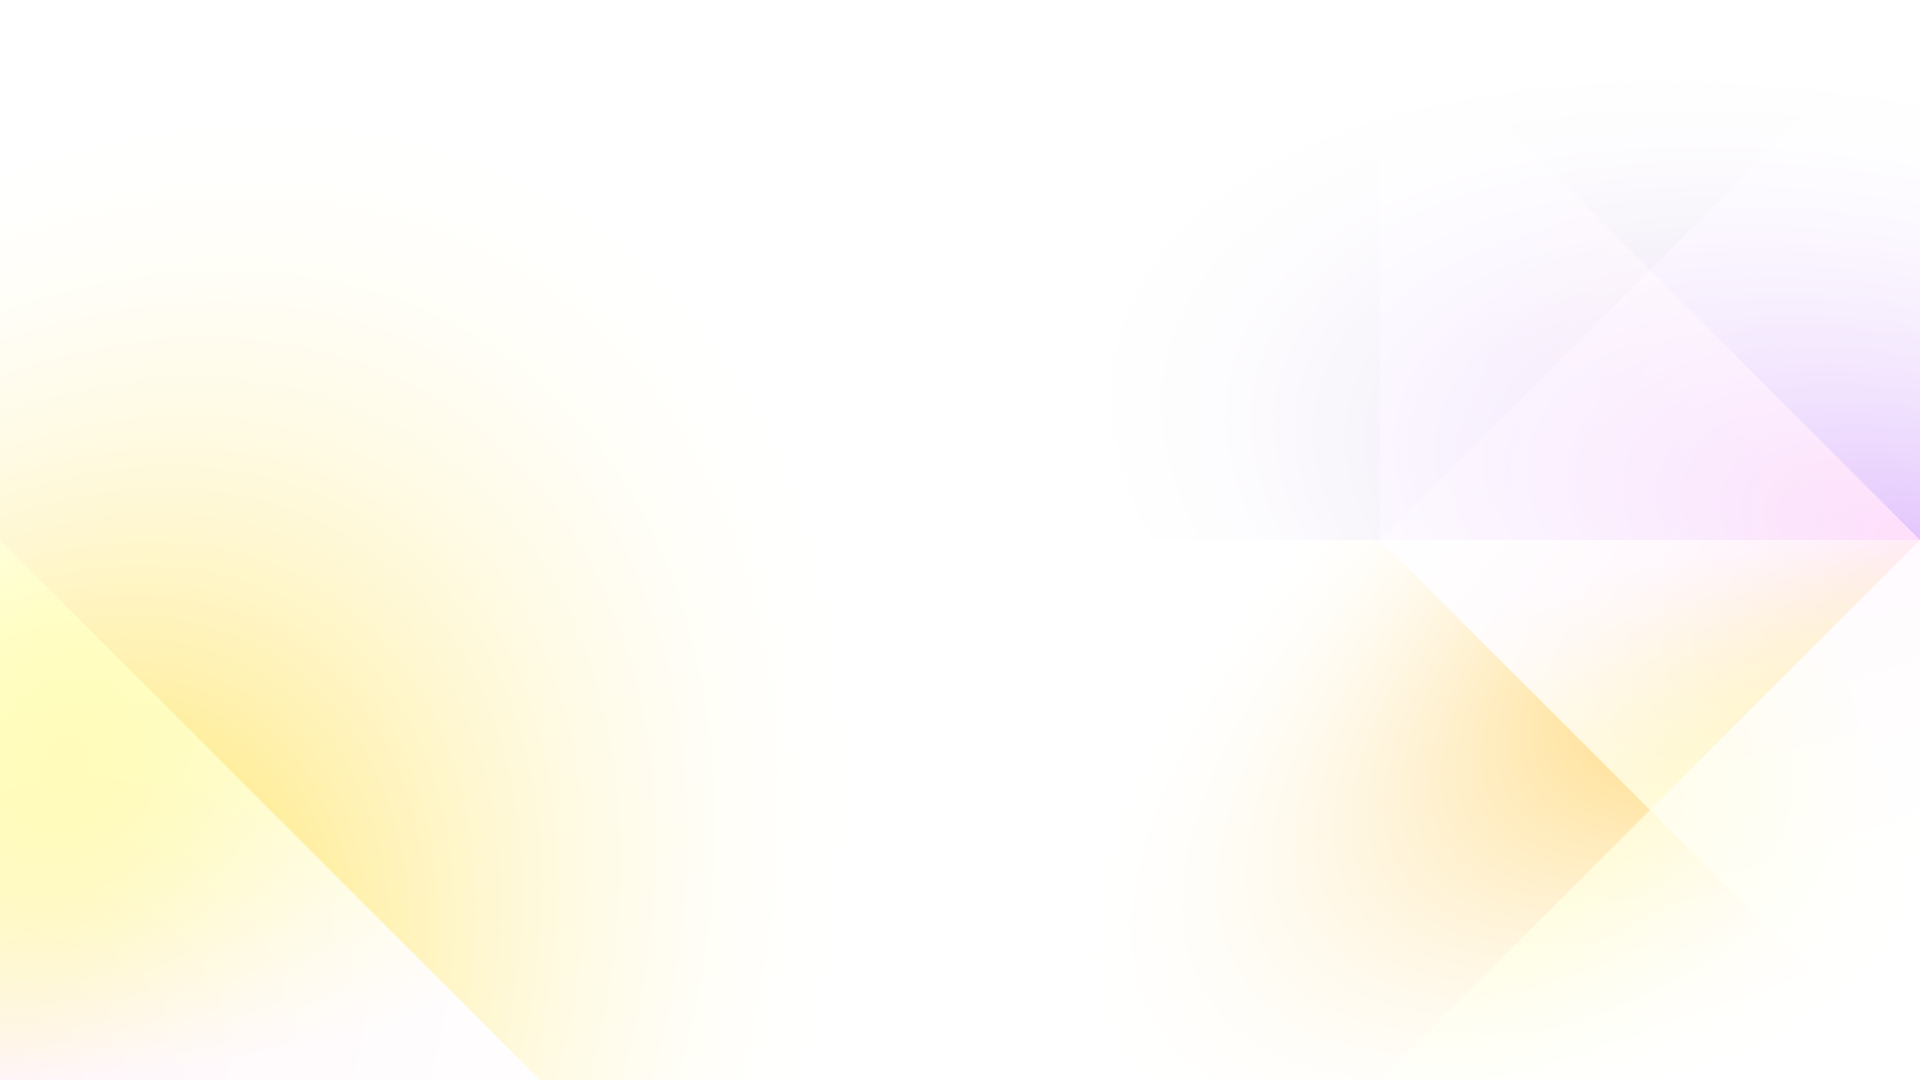
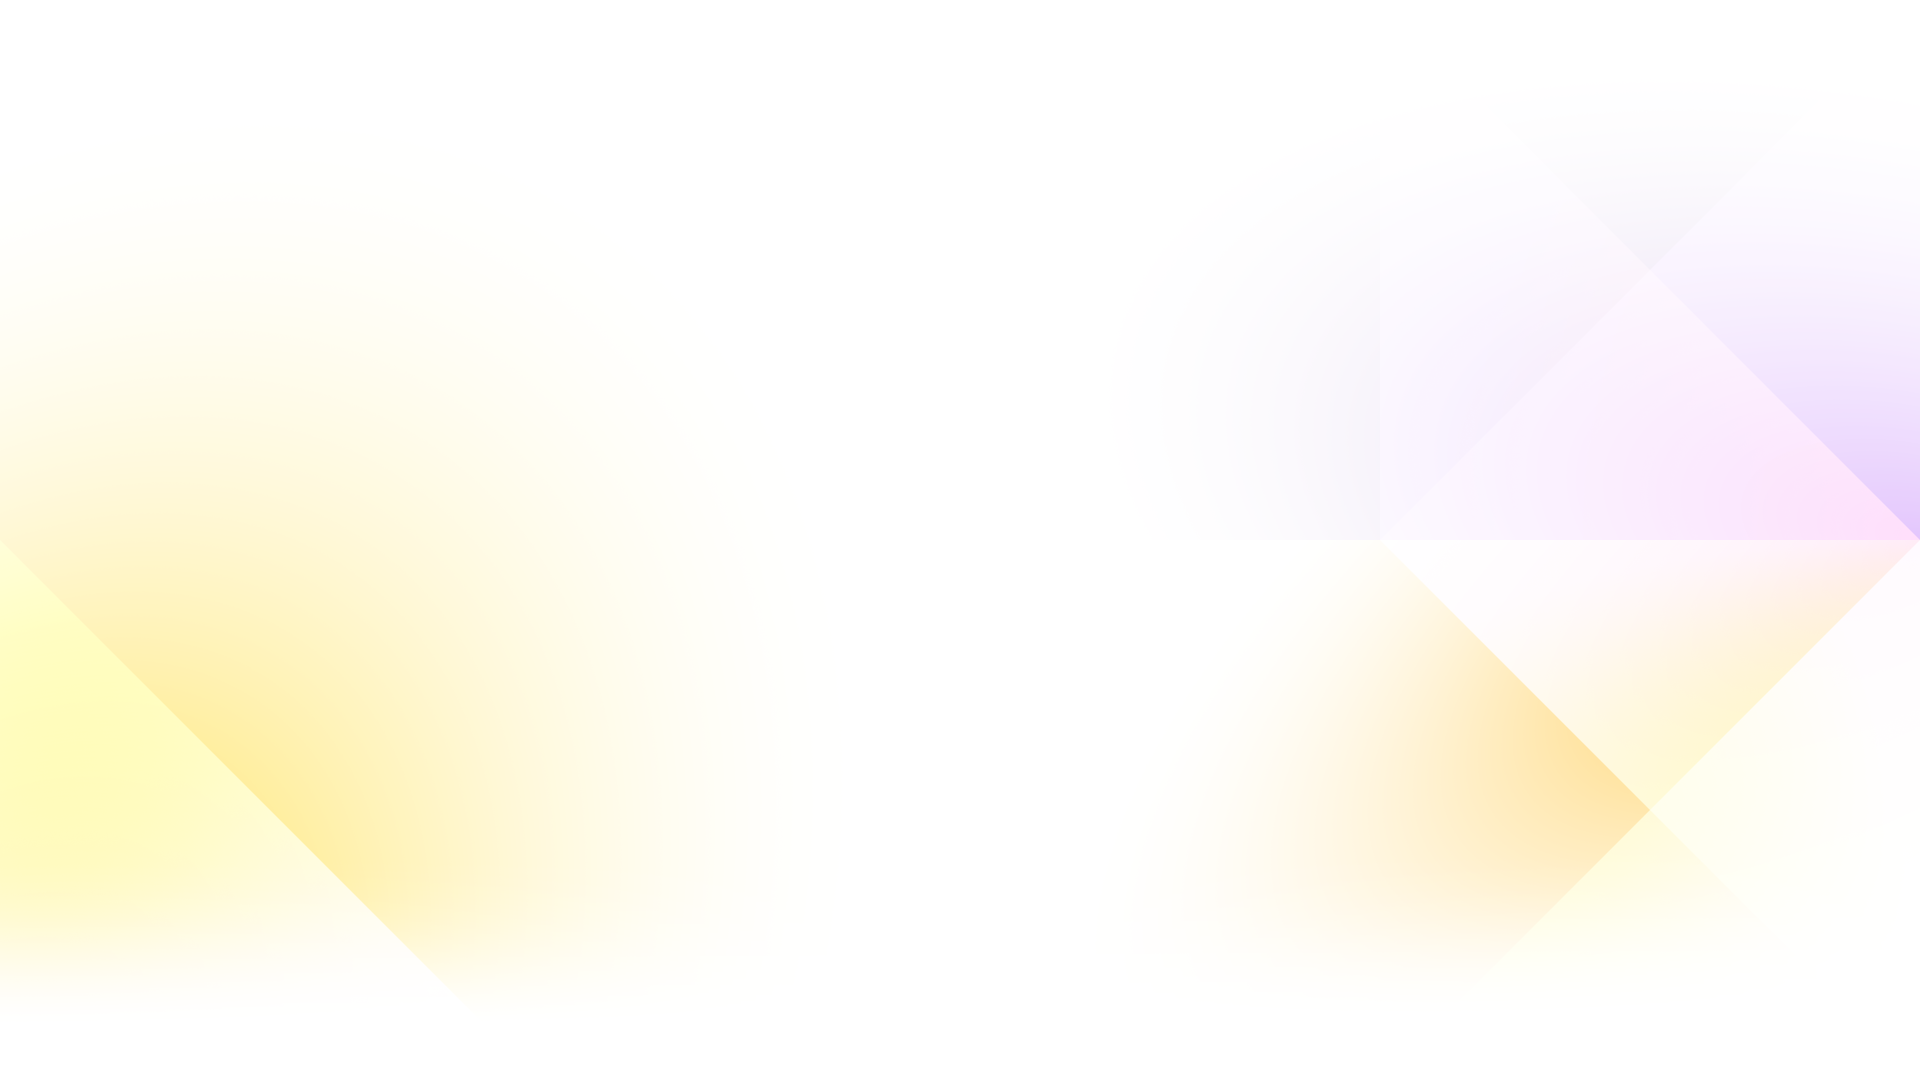
Refactor and Add New BG Image that fades out at the bottom

Changed region(s): [[0.2188, 0.8556, 0.3125, 1.0], [0.0, 0.8861, 0.0625, 0.9778]]

diff --git a/src/ui/layouts/hero-bg-layout.tsx b/src/ui/layouts/hero-bg-layout.tsx
@@ -12,12 +12,9 @@ export const HeroBgLayout = ({
 }) => {
   return (
     <div
-      className="flex flex-col flex-1 h-full bg-no-repeat bg-center bg-cover"
+      className="flex flex-col flex-1 h-full bg-no-repeat bg-center bg-cover -ml-8 -mr-8 -mt-8"
       style={{
         backgroundImage: "url(/background-pattern-v2.png)",
-        marginLeft: "-2rem",
-        marginRight: "-2rem",
-        marginTop: "-2rem",
       }}
     >
       <main className="flex-1">
